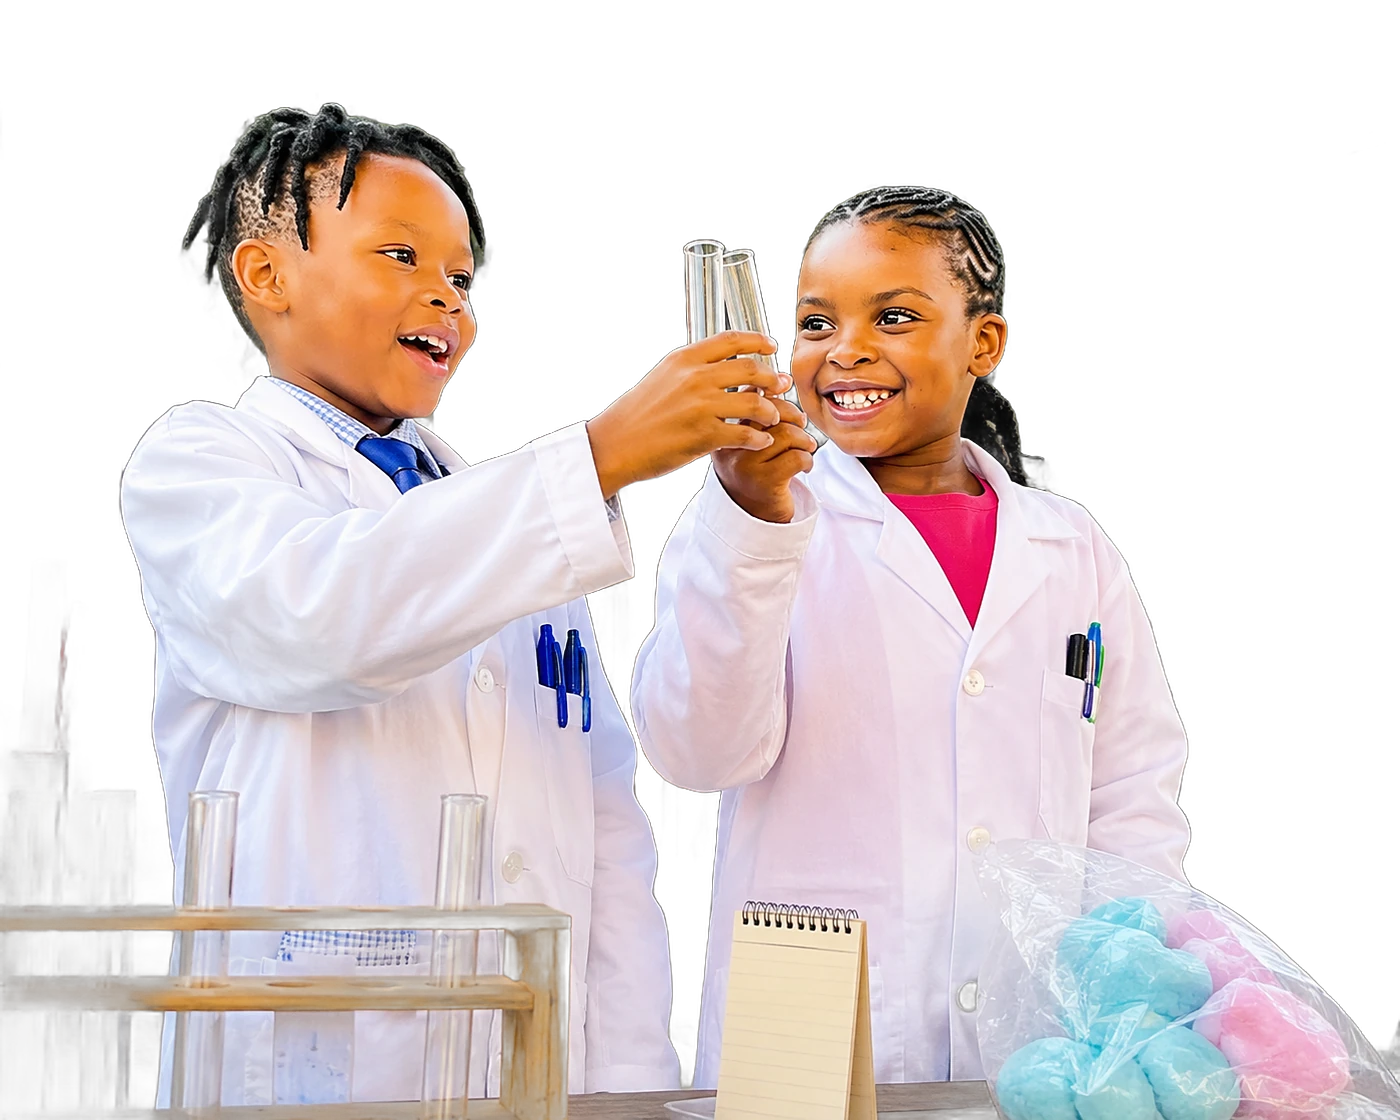
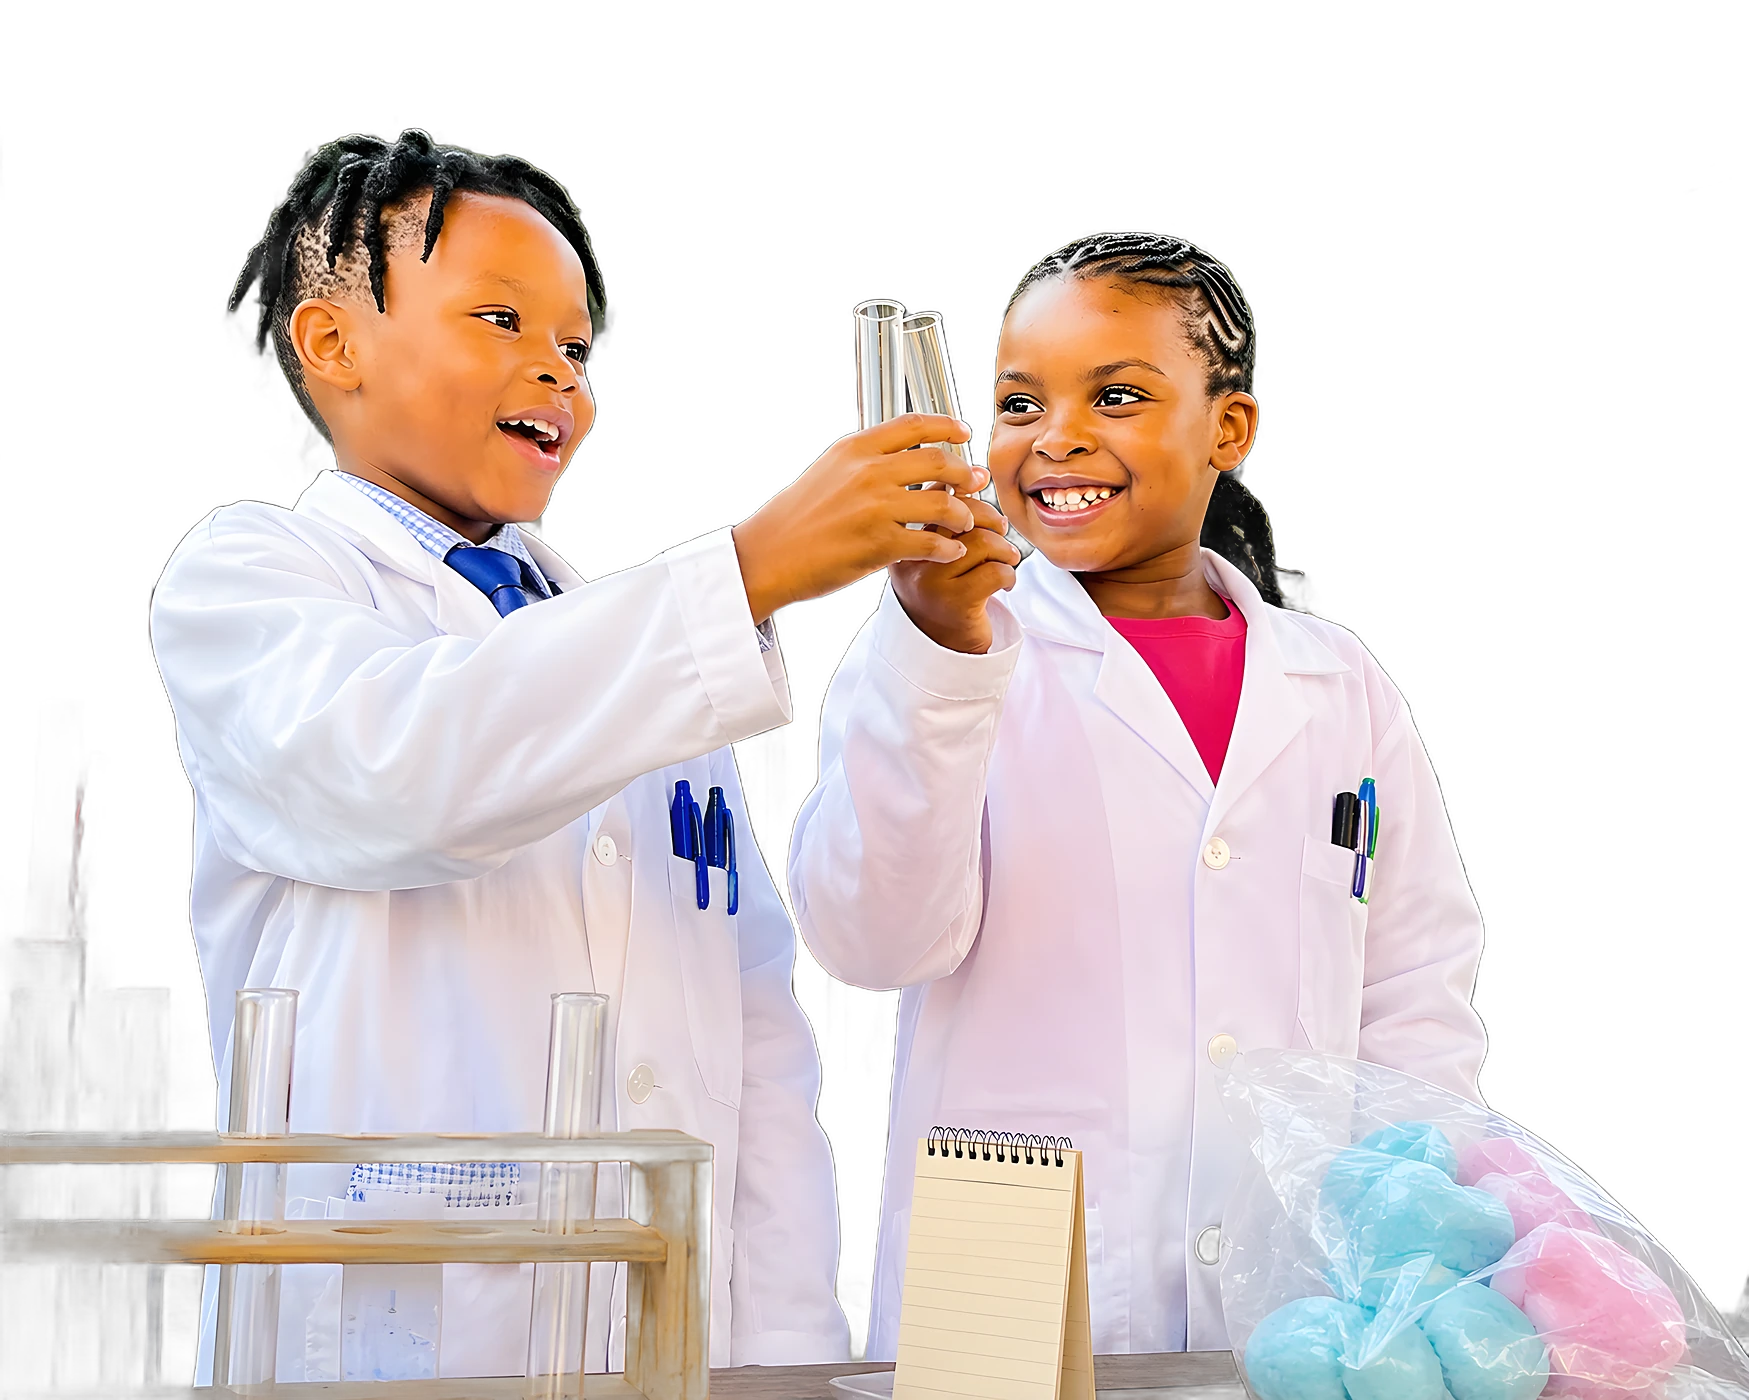
Nna le Bokamoso v3: sharp founder crop (AI-upscaled)
Claude-Session: https://claude.ai/code/session_017UzhUnrVtvJTxm7Hkg9FWs

diff --git a/local/nnalebokamoso/index.html b/local/nnalebokamoso/index.html
@@ -273,7 +273,7 @@ footer img{height:22px}
 .cf-h{font:400 clamp(64px,10vw,180px)/.86 var(--display);text-transform:uppercase;text-align:center;color:var(--ink);padding:0 var(--pad)}
 .cf-stage{position:relative;max-width:900px;margin:clamp(20px,4vh,40px) auto 0;padding:0 var(--pad)}
 .cf-photo{margin:0 auto;width:min(78vw,760px);aspect-ratio:1.25/1;clip-path:url(#cfCloud);transform:scale(var(--s,1));transition:transform .2s linear}
-.cf-photo img{width:100%;height:100%;object-fit:cover;object-position:50% 50%;display:block;transform:scale(1.9);transform-origin:43% 52%}
+.cf-photo img{width:100%;height:100%;object-fit:cover;object-position:50% 50%;display:block}
 .cf-stk{position:absolute;left:var(--x);top:var(--y);width:var(--w);aspect-ratio:1;transform:rotate(var(--r));animation:bobs 4.5s ease-in-out infinite alternate}
 .cf-rows{margin-top:clamp(24px,4vh,40px);display:grid;gap:14px}
 .cf-row{display:flex;gap:12px;width:max-content;will-change:transform}
@@ -380,7 +380,7 @@ footer img{height:22px}
   <h2 class="cf-h">Meet oThandiwe</h2>
   <div class="cf-stage">
     <svg width="0" height="0" style="position:absolute" aria-hidden="true"><clipPath id="cfCloud" clipPathUnits="objectBoundingBox"><path d="M.2,.95 C.06,.95 .02,.78 .1,.7 C.0,.6 .04,.4 .17,.38 C.16,.18 .36,.08 .48,.18 C.56,.03 .8,.05 .82,.24 C.98,.24 1.02,.46 .92,.54 C1.0,.66 .96,.9 .8,.92 C.72,1.0 .56,.98 .5,.93 C.42,.99 .28,.99 .2,.95 Z"/></clipPath></svg>
-    <figure class="cf-photo" id="cfPhoto"><img class="" src="img/founder.webp" alt="oThandiwe Lerato Sekhibane in a lab coat" loading="lazy" decoding="async" style=""></figure>
+    <figure class="cf-photo" id="cfPhoto"><img class="" src="img/founder-crop.webp" alt="oThandiwe Lerato Sekhibane in a lab coat" loading="lazy" decoding="async" style=""></figure>
     <span class="stk cf-stk" style="--x:8%;--y:8%;--w:9vw;--r:-14deg"><svg viewBox="0 0 100 100" class="stk-svg" aria-hidden="true"><g stroke="#fff" stroke-width="9" stroke-linejoin="round" stroke-linecap="round" paint-order="stroke"><path d="M38 12h24M42 12v26L20 80a8 8 0 0 0 7 12h46a8 8 0 0 0 7-12L58 38V12" fill="var(--cyan)"/><path d="M28 70h44l6 11a5 5 0 0 1-4 7H26a5 5 0 0 1-4-7z" fill="var(--yspink)" stroke-width="0"/><circle cx="44" cy="60" r="4" fill="#fff" stroke-width="0"/><circle cx="56" cy="52" r="3" fill="#fff" stroke-width="0"/></g></svg></span><span class="stk cf-stk" style="--x:84%;--y:4%;--w:8vw;--r:12deg"><svg viewBox="0 0 100 100" class="stk-svg" aria-hidden="true"><g stroke="#fff" stroke-width="9" stroke-linejoin="round" stroke-linecap="round" paint-order="stroke"><path d="M50 6l12 28 30 3-23 20 7 30-26-16-26 16 7-30L8 37l30-3z" fill="var(--yellow)"/><circle cx="40" cy="48" r="3.4" fill="var(--ink)" stroke-width="0"/><circle cx="60" cy="48" r="3.4" fill="var(--ink)" stroke-width="0"/><path d="M42 60q8 7 16 0" fill="none" stroke="var(--ink)" stroke-width="3.4" paint-order="normal"/></g></svg></span><span class="stk cf-stk" style="--x:2%;--y:66%;--w:8vw;--r:8deg"><svg viewBox="0 0 104 100" class="stk-svg" aria-hidden="true"><g stroke="#fff" stroke-width="9" stroke-linejoin="round" stroke-linecap="round" paint-order="stroke"><ellipse cx="32" cy="50" rx="22" ry="27" fill="#fff"/><ellipse cx="70" cy="50" rx="22" ry="27" fill="#fff"/><circle class="pupil" cx="36" cy="54" r="11" fill="var(--ink)" stroke-width="0"/><circle class="pupil" cx="74" cy="54" r="11" fill="var(--ink)" stroke-width="0"/><circle cx="40" cy="50" r="3.5" fill="#fff" stroke-width="0"/><circle cx="78" cy="50" r="3.5" fill="#fff" stroke-width="0"/></g></svg></span><span class="stk cf-stk" style="--x:86%;--y:62%;--w:8vw;--r:-10deg"><svg viewBox="0 0 100 100" class="stk-svg" aria-hidden="true"><g stroke="#fff" stroke-width="9" stroke-linejoin="round" stroke-linecap="round" paint-order="stroke"><g fill="none" stroke="var(--purple)" stroke-width="6" paint-order="normal"><ellipse cx="50" cy="50" rx="40" ry="15"/><ellipse cx="50" cy="50" rx="40" ry="15" transform="rotate(60 50 50)"/><ellipse cx="50" cy="50" rx="40" ry="15" transform="rotate(-60 50 50)"/></g><circle cx="50" cy="50" r="9" fill="var(--orange)"/></g></svg></span>
   </div>
   <div class="cf-rows" aria-hidden="true"><div class="cf-row" data-dir="1"><span class="cf-chip" style="--c:var(--cyan)">Ubuntu</span><span class="cf-chip" style="--c:var(--yellow)">AfroFuturism</span><span class="cf-chip" style="--c:var(--yspink)">ESTEAM</span><span class="cf-chip" style="--c:var(--green)">Whole-child wellness</span><span class="cf-chip" style="--c:var(--orange)">Curiosity</span><span class="cf-chip" style="--c:var(--purple)">Robots, AI &amp; ethics</span><span class="cf-chip" style="--c:var(--ysteal)">Creative confidence</span><span class="cf-chip" style="--c:var(--cyan)">Family legacy</span><span class="cf-chip" style="--c:var(--yellow)">Play</span><span class="cf-chip" style="--c:var(--yspink)">Theatre</span><span class="cf-chip" style="--c:var(--cyan)">Ubuntu</span><span class="cf-chip" style="--c:var(--yellow)">AfroFuturism</span><span class="cf-chip" style="--c:var(--yspink)">ESTEAM</span><span class="cf-chip" style="--c:var(--green)">Whole-child wellness</span><span class="cf-chip" style="--c:var(--orange)">Curiosity</span><span class="cf-chip" style="--c:var(--purple)">Robots, AI &amp; ethics</span><span class="cf-chip" style="--c:var(--ysteal)">Creative confidence</span><span class="cf-chip" style="--c:var(--cyan)">Family legacy</span><span class="cf-chip" style="--c:var(--yellow)">Play</span><span class="cf-chip" style="--c:var(--yspink)">Theatre</span><span class="cf-chip" style="--c:var(--cyan)">Ubuntu</span><span class="cf-chip" style="--c:var(--yellow)">AfroFuturism</span><span class="cf-chip" style="--c:var(--yspink)">ESTEAM</span><span class="cf-chip" style="--c:var(--green)">Whole-child wellness</span><span class="cf-chip" style="--c:var(--orange)">Curiosity</span><span class="cf-chip" style="--c:var(--purple)">Robots, AI &amp; ethics</span><span class="cf-chip" style="--c:var(--ysteal)">Creative confidence</span><span class="cf-chip" style="--c:var(--cyan)">Family legacy</span><span class="cf-chip" style="--c:var(--yellow)">Play</span><span class="cf-chip" style="--c:var(--yspink)">Theatre</span></div><div class="cf-row" data-dir="-1"><span class="cf-chip" style="--c:var(--green)">Theatre</span><span class="cf-chip" style="--c:var(--orange)">Play</span><span class="cf-chip" style="--c:var(--purple)">Family legacy</span><span class="cf-chip" style="--c:var(--ysteal)">Creative confidence</span><span class="cf-chip" style="--c:var(--cyan)">Robots, AI &amp; ethics</span><span class="cf-chip" style="--c:var(--yellow)">Curiosity</span><span class="cf-chip" style="--c:var(--yspink)">Whole-child wellness</span><span class="cf-chip" style="--c:var(--green)">ESTEAM</span><span class="cf-chip" style="--c:var(--orange)">AfroFuturism</span><span class="cf-chip" style="--c:var(--purple)">Ubuntu</span><span class="cf-chip" style="--c:var(--green)">Theatre</span><span class="cf-chip" style="--c:var(--orange)">Play</span><span class="cf-chip" style="--c:var(--purple)">Family legacy</span><span class="cf-chip" style="--c:var(--ysteal)">Creative confidence</span><span class="cf-chip" style="--c:var(--cyan)">Robots, AI &amp; ethics</span><span class="cf-chip" style="--c:var(--yellow)">Curiosity</span><span class="cf-chip" style="--c:var(--yspink)">Whole-child wellness</span><span class="cf-chip" style="--c:var(--green)">ESTEAM</span><span class="cf-chip" style="--c:var(--orange)">AfroFuturism</span><span class="cf-chip" style="--c:var(--purple)">Ubuntu</span><span class="cf-chip" style="--c:var(--green)">Theatre</span><span class="cf-chip" style="--c:var(--orange)">Play</span><span class="cf-chip" style="--c:var(--purple)">Family legacy</span><span class="cf-chip" style="--c:var(--ysteal)">Creative confidence</span><span class="cf-chip" style="--c:var(--cyan)">Robots, AI &amp; ethics</span><span class="cf-chip" style="--c:var(--yellow)">Curiosity</span><span class="cf-chip" style="--c:var(--yspink)">Whole-child wellness</span><span class="cf-chip" style="--c:var(--green)">ESTEAM</span><span class="cf-chip" style="--c:var(--orange)">AfroFuturism</span><span class="cf-chip" style="--c:var(--purple)">Ubuntu</span></div></div>
